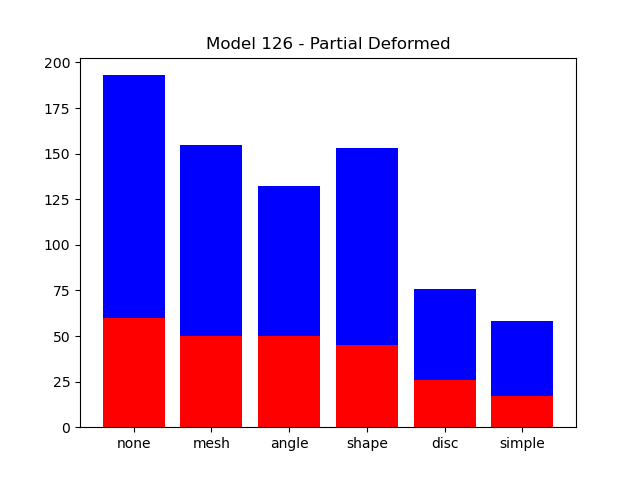
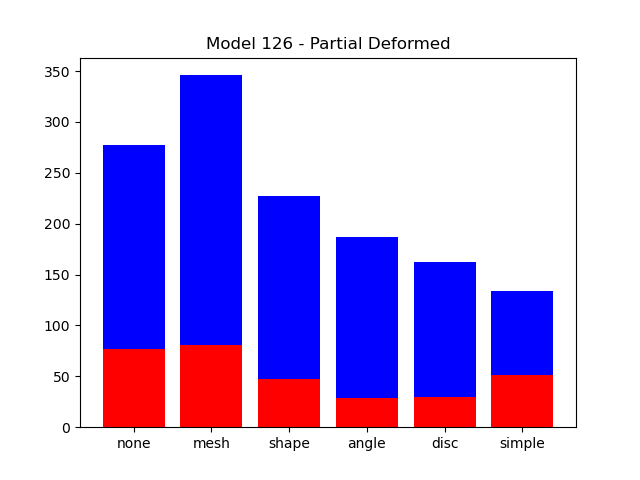
save the png files

diff --git a/Testing/exterior_boundary_detection/aggregate_data_edge_filtering_ground_truth_correspondence_ratio.py b/Testing/exterior_boundary_detection/aggregate_data_edge_filtering_ground_truth_correspondence_ratio.py
@@ -3,11 +3,12 @@ import copy
 import re
 import numpy as np
 
-criteria = ['none', 'mesh', 'angle', 'shape', 'disc', 'simple']
+criteria = ['none', 'mesh', 'shape', 'angle', 'disc', 'simple']
 data_types = ['Partial Deformed', 'Partial Non Deformed']
 model_numbers=['002', '042', '085', '126', '167', '207']
 
-feature_extractor='fcgf'
+# feature_extractor='fcgf'
+feature_extractor='kpfcn'
 training_data='partial_deformed'
 epoch='5'
 preprocessing='mutual'
